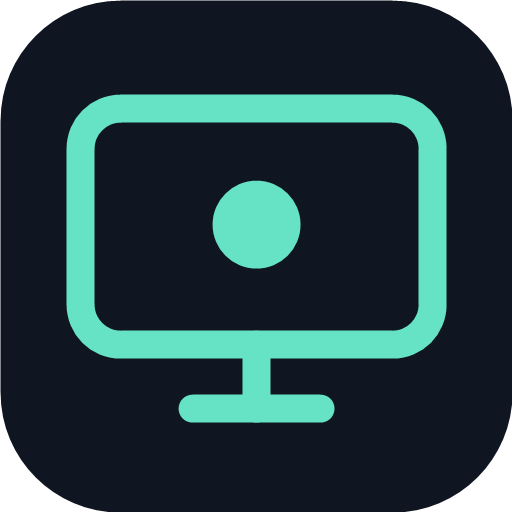
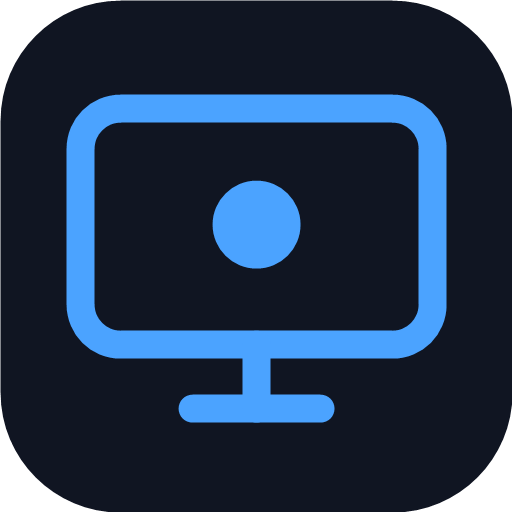
Visual BrunoVersal: tema azul, OK branco, ícone do Prime Video e borda do app
- Cabeçalho "CONTROLE / BrunoVersal"
- Borda cinza fina em volta do app
- Ícone oficial do Prime Video no atalho; "ABRIR" removido dos atalhos
- Botão OK branco; todos os tons verdes trocados por azuis (inclusive ícones do app)

Changed region(s): [[0.125, 0.1562, 0.875, 0.8438], [0.4062, 0.3438, 0.5938, 0.5312]]

diff --git a/src/style.css b/src/style.css
@@ -1,6 +1,6 @@
 @import url('https://fonts.googleapis.com/css2?family=DM+Sans:wght@400;500;600;700&family=Space+Grotesk:wght@400;500;600;700&display=swap');
-:root{font-family:'DM Sans',sans-serif;color:#f4f6fb;background:#090b11;font-synthesis:none;text-rendering:optimizeLegibility;-webkit-font-smoothing:antialiased;font-optical-sizing:auto;font-weight:400;--mint:#67e4c2;--muted:#858b9a;--panel:#121620;--line:rgba(255,255,255,.075)}*{box-sizing:border-box}body{margin:0;min-width:320px;background:radial-gradient(ellipse at 50% -15%,#1b2731 0%,#0a0c12 50%,#090b11 100%);min-height:100vh}.app-shell{width:min(100% - 32px,510px);margin:0 auto;padding:25px 0 26px}.topbar{display:flex;align-items:center;justify-content:space-between;margin-bottom:25px}.brand-lockup{display:flex;align-items:center;gap:12px}.brand-icon{width:45px;height:45px;border-radius:15px;background:#172a2c;border:1px solid #2a4c4a;display:grid;place-items:center;color:var(--mint);position:relative}.brand-icon span{position:absolute;width:5px;height:5px;border-radius:50%;background:var(--mint);right:10px;top:10px;box-shadow:0 0 10px #67e4c2}.eyebrow{font-size:9px;letter-spacing:2px;color:var(--muted);font-weight:700;margin:0 0 4px}.brand-lockup h1{font:600 22px 'Space Grotesk',sans-serif;letter-spacing:-.8px;margin:0}.brand-lockup h1 span{color:var(--mint)}button{font:inherit;color:inherit;cursor:pointer;border:0}.icon-button{width:40px;height:40px;display:grid;place-items:center;border-radius:13px;background:#171b26;color:#a9afbd;border:1px solid var(--line)}.connection-card{border:1px solid var(--line);background:linear-gradient(115deg,#171b25,#11151d);border-radius:18px;padding:15px;display:flex;align-items:center;gap:12px;margin-bottom:28px}.connection-mark{width:40px;height:40px;display:grid;place-items:center;border-radius:13px;background:#252a35;color:#a1a8b8}.is-connected .connection-mark{background:#17352f;color:var(--mint)}.connection-copy{display:flex;flex:1;min-width:0;flex-direction:column;gap:4px}.connection-copy strong{font-size:12px;font-weight:700}.connection-copy span{font-size:10px;color:var(--muted);white-space:nowrap;overflow:hidden;text-overflow:ellipsis}.connect-button{display:flex;align-items:center;gap:7px;background:var(--mint);color:#092019;font-size:11px;font-weight:700;padding:10px 12px;border-radius:10px}.connect-button span{font-size:15px}.section-heading{display:flex;justify-content:space-between;align-items:center;margin-bottom:14px}.section-heading h2{font:600 19px 'Space Grotesk',sans-serif;margin:0;letter-spacing:-.5px}.favorite-toggle{width:34px;height:34px;border-radius:11px;background:#151923;color:#777f90;display:grid;place-items:center}.favorite-toggle.active{color:#f3ca75}.streaming-grid{display:grid;grid-template-columns:repeat(3,minmax(0,1fr));gap:10px;margin-bottom:28px}.stream-card{height:115px;position:relative;overflow:hidden;border:1px solid var(--line);border-radius:17px;text-align:left;padding:13px 12px;background:#151821;display:flex;flex-direction:column;align-items:flex-start;justify-content:space-between;transition:transform .15s,border-color .15s}.stream-card:active{transform:scale(.97)}.stream-card:before{content:'';position:absolute;width:90px;height:90px;border-radius:50%;filter:blur(35px);opacity:.18;right:-30px;top:-25px;background:currentColor}.netflix{color:#f0444d}.youtube{color:#ff5555}.prime{color:#68baf6}.stream-symbol{font-family:Arial,sans-serif;font-size:32px;font-weight:900;line-height:28px}.netflix-symbol{font-family:Arial,sans-serif;transform:scaleX(.82);text-shadow:2px 1px #67151b}.youtube-play{width:31px;height:23px;border-radius:7px;background:#ff444b;color:#fff;display:grid;place-items:center}.stream-label{font-size:11px;font-weight:700;color:#f1f2f6}.stream-open{font-size:8px;letter-spacing:1px;color:#8f95a3;font-weight:700}.prime-symbol{font:bold 26px Arial,sans-serif;letter-spacing:-1px;color:#f0f4fa}.prime-symbol span{color:#68baf6;font-size:36px}.remote-heading{margin-bottom:13px}.live-pill{font-size:8px;letter-spacing:1px;color:#9aa2b1;border:1px solid var(--line);background:#141822;border-radius:8px;padding:8px 9px;display:flex;align-items:center;gap:6px}.live-pill span,.footer-status span{width:5px;height:5px;border-radius:50%;background:var(--mint);box-shadow:0 0 8px #67e4c2}.remote-card{border:1px solid rgba(255,255,255,.09);border-radius:24px;background:linear-gradient(145deg,#171b26,#10131b 75%);padding:17px 17px 14px;box-shadow:0 18px 50px #0003}.remote-top{display:flex;justify-content:space-between;align-items:center;margin-bottom:14px}.remote-mini-label{display:flex;align-items:center;gap:7px;color:#7d8798;font-size:9px;letter-spacing:1.5px;font-weight:700}.power-button{height:40px;width:40px;border-radius:13px;color:#ff6f78;background:#321f29;border:1px solid #58303b;display:grid;place-items:center}.quick-actions{display:grid;grid-template-columns:repeat(4,1fr);gap:8px;margin-bottom:22px}.quick-action{min-height:68px;border-radius:13px;background:#1d222e;border:1px solid rgba(255,255,255,.045);display:flex;align-items:center;justify-content:center;flex-direction:column;gap:7px;color:#b0b6c4}.quick-action>span:last-child{font-size:8px;letter-spacing:1px;font-weight:700}.quick-action.smart-action{background:#18302e;border-color:#294b45;color:var(--mint)}.smart-glyph{width:21px;height:21px;display:grid;grid-template-columns:repeat(2,1fr);gap:3px}.smart-glyph span{border:2px solid currentColor;border-radius:3px}.control-body{display:grid;grid-template-columns:minmax(0,1fr) 92px;gap:16px;align-items:center}.dpad{width:min(100%,235px);aspect-ratio:1/1;margin:0 auto;display:grid;grid-template-columns:1fr 1fr 1fr;grid-template-rows:1fr 1fr 1fr;gap:5px;padding:4px;border-radius:50%;background:#0d1017;border:1px solid #252a36}.dpad button{background:#1b202b;color:#b9c0cf;display:grid;place-items:center;border:1px solid #2b303d;box-shadow:inset 0 1px 0 #ffffff06}.dpad button svg{width:23px;height:23px;stroke-width:2.2}.dpad-up{grid-column:2;grid-row:1;border-radius:13px 13px 7px 7px}.dpad-left{grid-column:1;grid-row:2;border-radius:13px 7px 7px 13px}.dpad-ok{grid-column:2;grid-row:2;border-radius:50%;background:linear-gradient(145deg,#7af0cf,#50c8aa)!important;color:#10231f!important;border:4px solid #172b2a!important;font-weight:800;font-size:12px}.dpad-right{grid-column:3;grid-row:2;border-radius:7px 13px 13px 7px}.dpad-down{grid-column:2;grid-row:3;border-radius:7px 7px 13px 13px}.side-controls{display:flex;flex-direction:column;gap:20px;align-items:center}.side-control{display:flex;align-items:center;flex-direction:column;gap:9px;width:100%}.side-label{font-size:8px;letter-spacing:1.5px;color:#8b92a1;font-weight:700}.vertical-control{height:105px;width:43px;background:#0d1017;border:1px solid #292e3a;border-radius:15px;display:flex;flex-direction:column;align-items:center;justify-content:space-between;padding:5px 0}.vertical-control button,.channel-buttons button{width:32px;height:27px;display:grid;place-items:center;background:transparent;color:#aab2c1}.vertical-control button svg,.channel-buttons button svg{width:16px}.level-track{height:35px;width:5px;background:#2b303c;border-radius:8px;display:flex;align-items:flex-end;overflow:hidden}.level-track span{width:100%;border-radius:8px;background:var(--mint)}.mute-button{height:28px;width:38px;display:grid;place-items:center;border-radius:9px;background:#1d222e;color:#aab2c1}.mute-button svg{width:16px}.mute-button.muted{color:#ff737c}.channel-buttons{width:47px;padding:4px 0;background:#0d1017;border:1px solid #292e3a;border-radius:12px;display:flex;align-items:center;flex-direction:column}.channel-buttons span{font-size:12px;font-weight:700;color:#e8ebf2}.channel-buttons button{height:26px}.media-controls{margin-top:19px;padding-top:14px;border-top:1px solid var(--line);display:flex;align-items:center;justify-content:center;gap:10px}.media-controls button{width:37px;height:34px;border-radius:10px;background:#1d222e;color:#a8b0bf;display:grid;place-items:center}.media-controls button svg{width:17px}.media-controls .play-pause{width:53px;display:flex;justify-content:center;gap:3px;background:#203c38;color:var(--mint)}.media-divider{height:22px;width:1px;background:#343946;margin:0 2px}.keyboard-panel{margin-top:13px;border-radius:12px;background:#0c0f15;border:1px solid var(--line);padding:9px 11px;display:flex;align-items:center;gap:8px;color:#8b94a4}.keyboard-panel input{background:transparent;border:0;outline:0;color:#fff;min-width:0;flex:1;font:inherit;font-size:11px}.keyboard-panel button{background:transparent;color:#8b94a4;display:grid;place-items:center}footer{display:flex;justify-content:space-between;align-items:center;padding:19px 3px 0;color:#6c7382;font-size:8px;letter-spacing:1px;font-weight:700}footer b{color:#3e7569;padding:0 4px}.footer-status{display:flex;align-items:center;gap:7px;letter-spacing:.2px}.toast{position:fixed;bottom:22px;left:50%;transform:translateX(-50%);width:max-content;max-width:calc(100% - 28px);padding:12px 15px;background:#f0f4f8;color:#1b2029;border-radius:13px;box-shadow:0 12px 40px #0007;display:flex;align-items:center;gap:9px;font-size:11px;font-weight:600;z-index:5}.toast-check{width:21px;height:21px;display:grid;place-items:center;background:#d6f6eb;color:#247b63;border-radius:50%;flex-shrink:0}.modal-backdrop{position:fixed;inset:0;background:#05070bd9;backdrop-filter:blur(9px);display:grid;place-items:center;padding:18px;z-index:10}.connect-modal{width:min(100%,400px);background:#151923;border:1px solid #303644;border-radius:23px;padding:22px;box-shadow:0 25px 80px #0009}.modal-heading{display:flex;align-items:center;justify-content:space-between;margin-bottom:18px}.modal-icon{height:44px;width:44px;border-radius:14px;background:#19312e;color:var(--mint);display:grid;place-items:center}.connect-modal h2{font:600 24px 'Space Grotesk',sans-serif;letter-spacing:-.7px;margin:5px 0 9px}.modal-description{font-size:12px;line-height:1.65;color:#9aa2b1;margin:0 0 19px}.connect-modal form{display:flex;flex-direction:column;gap:9px}.connect-modal label{font-size:11px;color:#c6cbd5;font-weight:600;margin-top:5px}.connect-modal select,.connect-modal input{width:100%;border-radius:11px;background:#0e1118;border:1px solid #303644;color:#eef0f5;padding:13px 12px;font:inherit;font-size:12px;outline:none}.connect-modal select:focus,.connect-modal input:focus{border-color:#5ac9ad}.modal-note{display:flex;align-items:flex-start;gap:8px;color:#858e9e;font-size:10px;line-height:1.5;padding:8px 0 5px}.modal-note svg{color:var(--mint);flex-shrink:0}.submit-button{height:45px;border-radius:12px;background:var(--mint);color:#092019;font-size:12px;font-weight:800;display:flex;align-items:center;justify-content:center;gap:7px;margin-top:7px}.cancel-button{background:transparent;color:#929aaa;font-size:11px;padding:9px}@media(min-width:700px){.app-shell{padding-top:34px}.stream-card{height:125px}.remote-card{padding:20px 22px 16px}.dpad{max-width:245px}}@media(max-width:370px){.app-shell{width:calc(100% - 22px)}.remote-card{padding:13px 11px}.control-body{grid-template-columns:minmax(0,1fr) 75px;gap:8px}.quick-actions{gap:5px}.quick-action>span:last-child{font-size:7px}.streaming-grid{gap:7px}.stream-card{padding:11px 9px}}
-.bridge-indicator{font-size:9px;color:#ffb7a2;line-height:1.35}.bridge-indicator.online{color:var(--mint)}.bridge-indicator.checking{color:#e4c27d}.help-card{display:flex;gap:10px;align-items:flex-start;margin-top:14px;padding:12px 13px;border:1px solid var(--line);border-radius:13px;background:#11151d;color:#8e97a8;font-size:10px;line-height:1.6}.help-card svg{color:var(--mint);flex-shrink:0;margin-top:1px}.help-card b{color:#c7d0dc}.scan-button{display:flex;align-items:center;justify-content:center;gap:8px;width:100%;padding:12px;border:1px solid #2b4c47;background:#1a302d;color:var(--mint);border-radius:11px;font-size:11px;font-weight:700;margin:0 0 13px}.scan-button:disabled,.submit-button:disabled{opacity:.6;cursor:wait}.found-devices{display:flex;flex-direction:column;gap:6px;margin-bottom:13px;max-height:145px;overflow:auto}.found-devices button{display:flex;align-items:center;gap:10px;text-align:left;padding:10px;border:1px solid var(--line);background:#0e1118;border-radius:10px;color:var(--mint)}.found-devices button span{display:flex;flex-direction:column;gap:3px}.found-devices button b{font-size:10px;color:#e9edf4}.found-devices button small{font-size:9px;color:#8992a2}.bridge-hint{display:flex;align-items:center;gap:6px;font-size:9px;color:#7f8999;margin-top:12px;line-height:1.5}.bridge-hint svg{color:#83d8c3}
+:root{font-family:'DM Sans',sans-serif;color:#f4f6fb;background:#090b11;font-synthesis:none;text-rendering:optimizeLegibility;-webkit-font-smoothing:antialiased;font-optical-sizing:auto;font-weight:400;--accent:#4ba3ff;--muted:#858b9a;--panel:#121620;--line:rgba(255,255,255,.075)}*{box-sizing:border-box}body{margin:0;min-width:320px;background:radial-gradient(ellipse at 50% -15%,#1b2731 0%,#0a0c12 50%,#090b11 100%);min-height:100vh}.app-shell{width:min(100% - 24px,546px);margin:12px auto;padding:22px 18px 22px;border:1px solid #3a4150;border-radius:30px}.topbar{display:flex;align-items:center;justify-content:space-between;margin-bottom:25px}.brand-lockup{display:flex;align-items:center;gap:12px}.brand-icon{width:45px;height:45px;border-radius:15px;background:#162740;border:1px solid #29466e;display:grid;place-items:center;color:var(--accent);position:relative}.brand-icon span{position:absolute;width:5px;height:5px;border-radius:50%;background:var(--accent);right:10px;top:10px;box-shadow:0 0 10px #4ba3ff}.eyebrow{font-size:9px;letter-spacing:2px;color:var(--muted);font-weight:700;margin:0 0 4px}.brand-lockup h1{font:600 22px 'Space Grotesk',sans-serif;letter-spacing:-.8px;margin:0}.brand-lockup h1 span{color:var(--accent)}button{font:inherit;color:inherit;cursor:pointer;border:0}.icon-button{width:40px;height:40px;display:grid;place-items:center;border-radius:13px;background:#171b26;color:#a9afbd;border:1px solid var(--line)}.connection-card{border:1px solid var(--line);background:linear-gradient(115deg,#171b25,#11151d);border-radius:18px;padding:15px;display:flex;align-items:center;gap:12px;margin-bottom:28px}.connection-mark{width:40px;height:40px;display:grid;place-items:center;border-radius:13px;background:#252a35;color:#a1a8b8}.is-connected .connection-mark{background:#142d4d;color:var(--accent)}.connection-copy{display:flex;flex:1;min-width:0;flex-direction:column;gap:4px}.connection-copy strong{font-size:12px;font-weight:700}.connection-copy span{font-size:10px;color:var(--muted);white-space:nowrap;overflow:hidden;text-overflow:ellipsis}.connect-button{display:flex;align-items:center;gap:7px;background:var(--accent);color:#061a33;font-size:11px;font-weight:700;padding:10px 12px;border-radius:10px}.connect-button span{font-size:15px}.section-heading{display:flex;justify-content:space-between;align-items:center;margin-bottom:14px}.section-heading h2{font:600 19px 'Space Grotesk',sans-serif;margin:0;letter-spacing:-.5px}.favorite-toggle{width:34px;height:34px;border-radius:11px;background:#151923;color:#777f90;display:grid;place-items:center}.favorite-toggle.active{color:#f3ca75}.streaming-grid{display:grid;grid-template-columns:repeat(3,minmax(0,1fr));gap:10px;margin-bottom:28px}.stream-card{height:115px;position:relative;overflow:hidden;border:1px solid var(--line);border-radius:17px;text-align:left;padding:13px 12px;background:#151821;display:flex;flex-direction:column;align-items:flex-start;justify-content:space-between;transition:transform .15s,border-color .15s}.stream-card:active{transform:scale(.97)}.stream-card:before{content:'';position:absolute;width:90px;height:90px;border-radius:50%;filter:blur(35px);opacity:.18;right:-30px;top:-25px;background:currentColor}.netflix{color:#f0444d}.youtube{color:#ff5555}.prime{color:#68baf6}.stream-symbol{font-family:Arial,sans-serif;font-size:32px;font-weight:900;line-height:28px}.netflix-symbol{font-family:Arial,sans-serif;transform:scaleX(.82);text-shadow:2px 1px #67151b}.youtube-play{width:31px;height:23px;border-radius:7px;background:#ff444b;color:#fff;display:grid;place-items:center}.stream-label{font-size:11px;font-weight:700;color:#f1f2f6}.remote-heading{margin-bottom:13px}.live-pill{font-size:8px;letter-spacing:1px;color:#9aa2b1;border:1px solid var(--line);background:#141822;border-radius:8px;padding:8px 9px;display:flex;align-items:center;gap:6px}.live-pill span,.footer-status span{width:5px;height:5px;border-radius:50%;background:var(--accent);box-shadow:0 0 8px #4ba3ff}.remote-card{border:1px solid rgba(255,255,255,.09);border-radius:24px;background:linear-gradient(145deg,#171b26,#10131b 75%);padding:17px 17px 14px;box-shadow:0 18px 50px #0003}.remote-top{display:flex;justify-content:space-between;align-items:center;margin-bottom:14px}.remote-mini-label{display:flex;align-items:center;gap:7px;color:#7d8798;font-size:9px;letter-spacing:1.5px;font-weight:700}.power-button{height:40px;width:40px;border-radius:13px;color:#ff6f78;background:#321f29;border:1px solid #58303b;display:grid;place-items:center}.quick-actions{display:grid;grid-template-columns:repeat(4,1fr);gap:8px;margin-bottom:22px}.quick-action{min-height:68px;border-radius:13px;background:#1d222e;border:1px solid rgba(255,255,255,.045);display:flex;align-items:center;justify-content:center;flex-direction:column;gap:7px;color:#b0b6c4}.quick-action>span:last-child{font-size:8px;letter-spacing:1px;font-weight:700}.quick-action.smart-action{background:#162a46;border-color:#28446c;color:var(--accent)}.smart-glyph{width:21px;height:21px;display:grid;grid-template-columns:repeat(2,1fr);gap:3px}.smart-glyph span{border:2px solid currentColor;border-radius:3px}.control-body{display:grid;grid-template-columns:minmax(0,1fr) 92px;gap:16px;align-items:center}.dpad{width:min(100%,235px);aspect-ratio:1/1;margin:0 auto;display:grid;grid-template-columns:1fr 1fr 1fr;grid-template-rows:1fr 1fr 1fr;gap:5px;padding:4px;border-radius:50%;background:#0d1017;border:1px solid #252a36}.dpad button{background:#1b202b;color:#b9c0cf;display:grid;place-items:center;border:1px solid #2b303d;box-shadow:inset 0 1px 0 #ffffff06}.dpad button svg{width:23px;height:23px;stroke-width:2.2}.dpad-up{grid-column:2;grid-row:1;border-radius:13px 13px 7px 7px}.dpad-left{grid-column:1;grid-row:2;border-radius:13px 7px 7px 13px}.dpad-ok{grid-column:2;grid-row:2;border-radius:50%;background:linear-gradient(145deg,#ffffff,#e4e8ef)!important;color:#121823!important;border:4px solid #262d3a!important;font-weight:800;font-size:12px;box-shadow:0 4px 14px #0006}.dpad-right{grid-column:3;grid-row:2;border-radius:7px 13px 13px 7px}.dpad-down{grid-column:2;grid-row:3;border-radius:7px 7px 13px 13px}.side-controls{display:flex;flex-direction:column;gap:20px;align-items:center}.side-control{display:flex;align-items:center;flex-direction:column;gap:9px;width:100%}.side-label{font-size:8px;letter-spacing:1.5px;color:#8b92a1;font-weight:700}.vertical-control{height:105px;width:43px;background:#0d1017;border:1px solid #292e3a;border-radius:15px;display:flex;flex-direction:column;align-items:center;justify-content:space-between;padding:5px 0}.vertical-control button,.channel-buttons button{width:32px;height:27px;display:grid;place-items:center;background:transparent;color:#aab2c1}.vertical-control button svg,.channel-buttons button svg{width:16px}.level-track{height:35px;width:5px;background:#2b303c;border-radius:8px;display:flex;align-items:flex-end;overflow:hidden}.level-track span{width:100%;border-radius:8px;background:var(--accent)}.mute-button{height:28px;width:38px;display:grid;place-items:center;border-radius:9px;background:#1d222e;color:#aab2c1}.mute-button svg{width:16px}.mute-button.muted{color:#ff737c}.channel-buttons{width:47px;padding:4px 0;background:#0d1017;border:1px solid #292e3a;border-radius:12px;display:flex;align-items:center;flex-direction:column}.channel-buttons span{font-size:12px;font-weight:700;color:#e8ebf2}.channel-buttons button{height:26px}.media-controls{margin-top:19px;padding-top:14px;border-top:1px solid var(--line);display:flex;align-items:center;justify-content:center;gap:10px}.media-controls button{width:37px;height:34px;border-radius:10px;background:#1d222e;color:#a8b0bf;display:grid;place-items:center}.media-controls button svg{width:17px}.media-controls .play-pause{width:53px;display:flex;justify-content:center;gap:3px;background:#1d3555;color:var(--accent)}.media-divider{height:22px;width:1px;background:#343946;margin:0 2px}.keyboard-panel{margin-top:13px;border-radius:12px;background:#0c0f15;border:1px solid var(--line);padding:9px 11px;display:flex;align-items:center;gap:8px;color:#8b94a4}.keyboard-panel input{background:transparent;border:0;outline:0;color:#fff;min-width:0;flex:1;font:inherit;font-size:11px}.keyboard-panel button{background:transparent;color:#8b94a4;display:grid;place-items:center}footer{display:flex;justify-content:space-between;align-items:center;padding:19px 3px 0;color:#6c7382;font-size:8px;letter-spacing:1px;font-weight:700}footer b{color:#3d679f;padding:0 4px}.footer-status{display:flex;align-items:center;gap:7px;letter-spacing:.2px}.toast{position:fixed;bottom:22px;left:50%;transform:translateX(-50%);width:max-content;max-width:calc(100% - 28px);padding:12px 15px;background:#f0f4f8;color:#1b2029;border-radius:13px;box-shadow:0 12px 40px #0007;display:flex;align-items:center;gap:9px;font-size:11px;font-weight:600;z-index:5}.toast-check{width:21px;height:21px;display:grid;place-items:center;background:#d9eaff;color:#1e5fa6;border-radius:50%;flex-shrink:0}.modal-backdrop{position:fixed;inset:0;background:#05070bd9;backdrop-filter:blur(9px);display:grid;place-items:center;padding:18px;z-index:10}.connect-modal{width:min(100%,400px);background:#151923;border:1px solid #303644;border-radius:23px;padding:22px;box-shadow:0 25px 80px #0009}.modal-heading{display:flex;align-items:center;justify-content:space-between;margin-bottom:18px}.modal-icon{height:44px;width:44px;border-radius:14px;background:#172c49;color:var(--accent);display:grid;place-items:center}.connect-modal h2{font:600 24px 'Space Grotesk',sans-serif;letter-spacing:-.7px;margin:5px 0 9px}.modal-description{font-size:12px;line-height:1.65;color:#9aa2b1;margin:0 0 19px}.connect-modal form{display:flex;flex-direction:column;gap:9px}.connect-modal label{font-size:11px;color:#c6cbd5;font-weight:600;margin-top:5px}.connect-modal select,.connect-modal input{width:100%;border-radius:11px;background:#0e1118;border:1px solid #303644;color:#eef0f5;padding:13px 12px;font:inherit;font-size:12px;outline:none}.connect-modal select:focus,.connect-modal input:focus{border-color:#4a98ea}.modal-note{display:flex;align-items:flex-start;gap:8px;color:#858e9e;font-size:10px;line-height:1.5;padding:8px 0 5px}.modal-note svg{color:var(--accent);flex-shrink:0}.submit-button{height:45px;border-radius:12px;background:var(--accent);color:#061a33;font-size:12px;font-weight:800;display:flex;align-items:center;justify-content:center;gap:7px;margin-top:7px}.cancel-button{background:transparent;color:#929aaa;font-size:11px;padding:9px}@media(min-width:700px){.app-shell{padding-top:34px}.stream-card{height:125px}.remote-card{padding:20px 22px 16px}.dpad{max-width:245px}}@media(max-width:370px){.app-shell{width:calc(100% - 12px);padding:16px 10px;border-radius:24px}.remote-card{padding:13px 11px}.control-body{grid-template-columns:minmax(0,1fr) 75px;gap:8px}.quick-actions{gap:5px}.quick-action>span:last-child{font-size:7px}.streaming-grid{gap:7px}.stream-card{padding:11px 9px}}
+.bridge-indicator{font-size:9px;color:#ffb7a2;line-height:1.35}.bridge-indicator.online{color:var(--accent)}.bridge-indicator.checking{color:#e4c27d}.help-card{display:flex;gap:10px;align-items:flex-start;margin-top:14px;padding:12px 13px;border:1px solid var(--line);border-radius:13px;background:#11151d;color:#8e97a8;font-size:10px;line-height:1.6}.help-card svg{color:var(--accent);flex-shrink:0;margin-top:1px}.help-card b{color:#c7d0dc}.scan-button{display:flex;align-items:center;justify-content:center;gap:8px;width:100%;padding:12px;border:1px solid #2a476f;background:#172a48;color:var(--accent);border-radius:11px;font-size:11px;font-weight:700;margin:0 0 13px}.scan-button:disabled,.submit-button:disabled{opacity:.6;cursor:wait}.found-devices{display:flex;flex-direction:column;gap:6px;margin-bottom:13px;max-height:145px;overflow:auto}.found-devices button{display:flex;align-items:center;gap:10px;text-align:left;padding:10px;border:1px solid var(--line);background:#0e1118;border-radius:10px;color:var(--accent)}.found-devices button span{display:flex;flex-direction:column;gap:3px}.found-devices button b{font-size:10px;color:#e9edf4}.found-devices button small{font-size:9px;color:#8992a2}.bridge-hint{display:flex;align-items:center;gap:6px;font-size:9px;color:#7f8999;margin-top:12px;line-height:1.5}.bridge-hint svg{color:#8ec4ff}
 
 /* v1.2 — configurações em abas, ponte, toasts de erro e controles sem valores falsos */
 .connect-modal{max-height:calc(100dvh - 36px);overflow:auto;overscroll-behavior:contain}
@@ -8,7 +8,7 @@
 .modal-description b{color:#d5dbe5}
 .settings-tabs{display:grid;grid-template-columns:1fr 1fr;gap:5px;padding:4px;background:#0e1118;border:1px solid #303644;border-radius:12px;margin-bottom:16px}
 .settings-tabs button{display:flex;align-items:center;justify-content:center;gap:6px;padding:9px;border-radius:9px;background:transparent;color:#8e97a8;font-size:11px;font-weight:700}
-.settings-tabs button.active{background:#1a302d;color:var(--mint)}
+.settings-tabs button.active{background:#172a48;color:var(--accent)}
 .secondary-button{display:flex;align-items:center;justify-content:center;gap:7px;padding:11px;border-radius:11px;border:1px solid #303644;background:#1b202b;color:#c6cbd5;font-size:11px;font-weight:700}
 .secondary-button:disabled,.scan-button:disabled{opacity:.55;cursor:not-allowed}
 .pair-box{border:1px solid var(--line);border-radius:12px;padding:10px 12px;background:#11151d;margin-top:4px}
@@ -18,7 +18,7 @@
 .field-row{display:grid;grid-template-columns:1fr 1fr;gap:8px}
 .field-help{font-size:10px;line-height:1.55;color:#858e9e}
 .status-line{display:flex;align-items:center;gap:7px;font-size:10px;line-height:1.5;padding:10px 11px;border-radius:10px;background:#0e1118;border:1px solid var(--line);color:#9aa2b1;margin-top:4px}
-.status-line.online{color:var(--mint);border-color:#294b45}
+.status-line.online{color:var(--accent);border-color:#28446c}
 .status-line.bad{color:#ffb7a2;border-color:#5a3a35}
 .bridge-indicator.idle{color:#858b9a}
 .toast{line-height:1.45;z-index:20}
@@ -27,12 +27,13 @@
 .live-pill.sent span{background:#f3ca75;box-shadow:0 0 8px #f3ca75}
 .volume-icon{display:grid;place-items:center;color:#5d6575}
 .channel-buttons span{font-size:10px;letter-spacing:1px;color:#8b92a1;padding:2px 0}
-.keyboard-panel .send{color:var(--mint)}
-button:focus-visible,select:focus-visible,input:focus-visible,summary:focus-visible{outline:2px solid var(--mint);outline-offset:2px}
+.keyboard-panel .send{color:var(--accent)}
+button:focus-visible,select:focus-visible,input:focus-visible,summary:focus-visible{outline:2px solid var(--accent);outline-offset:2px}
 .found-devices{max-height:220px}
 .found-devices button.unsupported{opacity:.55;color:#8b94a4}
-.found-devices .found-platform{color:var(--mint);font-weight:600}
+.found-devices .found-platform{color:var(--accent);font-weight:600}
 .found-devices button.unsupported .found-platform{color:#8b94a4;font-weight:500}
-.tv-code{display:flex;flex-direction:column;gap:9px;border-color:#294b45}
+.tv-code{display:flex;flex-direction:column;gap:9px;border-color:#28446c}
 .tv-code input{text-align:center;font-size:20px!important;letter-spacing:6px;font-weight:700}
 .tv-code input::placeholder{font-size:13px;letter-spacing:1px;font-weight:500}
+.prime-logo{width:36px;height:36px;border-radius:9px;display:block;box-shadow:0 2px 8px #0005}

diff --git a/src/App.tsx b/src/App.tsx
@@ -1,5 +1,6 @@
 import { useCallback, useEffect, useRef, useState } from 'react';
 import { Power, Wifi, WifiOff, Settings2, ChevronUp, ChevronDown, ChevronLeft, ChevronRight, Home, ArrowLeft, Menu, Volume2, VolumeX, Plus, Minus, Mic, Keyboard, Play, Pause, SkipBack, SkipForward, Tv, Search, Check, X, CircleHelp, TriangleAlert, Send } from 'lucide-react';
+import primeVideoLogo from './assets/prime-video.png';
 import { BRIDGE_STATUS_TEXT, SettingsModal } from './Settings';
 import { bridgeHealth, BridgeError } from './lib/bridge';
 import { openApp, sendAction, sendText, testDevice, type RemoteContext } from './lib/remote';
@@ -151,7 +152,7 @@ export default function App() {
 
   return <main className="app-shell">
     <header className="topbar">
-      <div className="brand-lockup"><div className="brand-icon"><Tv size={23} /><span /></div><div><p className="eyebrow">CONTROLE UNIVERSAL</p><h1>Smart<span>Remote</span></h1></div></div>
+      <div className="brand-lockup"><div className="brand-icon"><Tv size={23} /><span /></div><div><p className="eyebrow">CONTROLE</p><h1>Bruno<span>Versal</span></h1></div></div>
       <button className="icon-button settings" aria-label="Configurações" onClick={() => setShowSettings(true)}><Settings2 size={20} /></button>
     </header>
 
@@ -167,9 +168,9 @@ export default function App() {
 
     <section className="section-heading"><div><p className="eyebrow">ATALHOS</p><h2>Abra direto na TV</h2></div></section>
     <section className="streaming-grid">
-      <button className="stream-card netflix" onClick={() => launch('Netflix')}><span className="stream-symbol netflix-symbol">N</span><span className="stream-label">Netflix</span><span className="stream-open">ABRIR ↗</span></button>
-      <button className="stream-card youtube" onClick={() => launch('YouTube')}><span className="youtube-play"><Play size={19} fill="currentColor" /></span><span className="stream-label">YouTube</span><span className="stream-open">ABRIR ↗</span></button>
-      <button className="stream-card prime" onClick={() => launch('Prime Video')}><span className="prime-symbol">prime<span>›</span></span><span className="stream-label">Prime Video</span><span className="stream-open">ABRIR ↗</span></button>
+      <button className="stream-card netflix" onClick={() => launch('Netflix')}><span className="stream-symbol netflix-symbol">N</span><span className="stream-label">Netflix</span></button>
+      <button className="stream-card youtube" onClick={() => launch('YouTube')}><span className="youtube-play"><Play size={19} fill="currentColor" /></span><span className="stream-label">YouTube</span></button>
+      <button className="stream-card prime" onClick={() => launch('Prime Video')}><img className="prime-logo" src={primeVideoLogo} alt="" /><span className="stream-label">Prime Video</span></button>
     </section>
 
     <section className="section-heading remote-heading"><div><p className="eyebrow">CONTROLE PRINCIPAL</p><h2>Seu controle remoto</h2></div><span className={`live-pill ${sent ? 'sent' : ''}`}><span /> {pill}</span></section>
